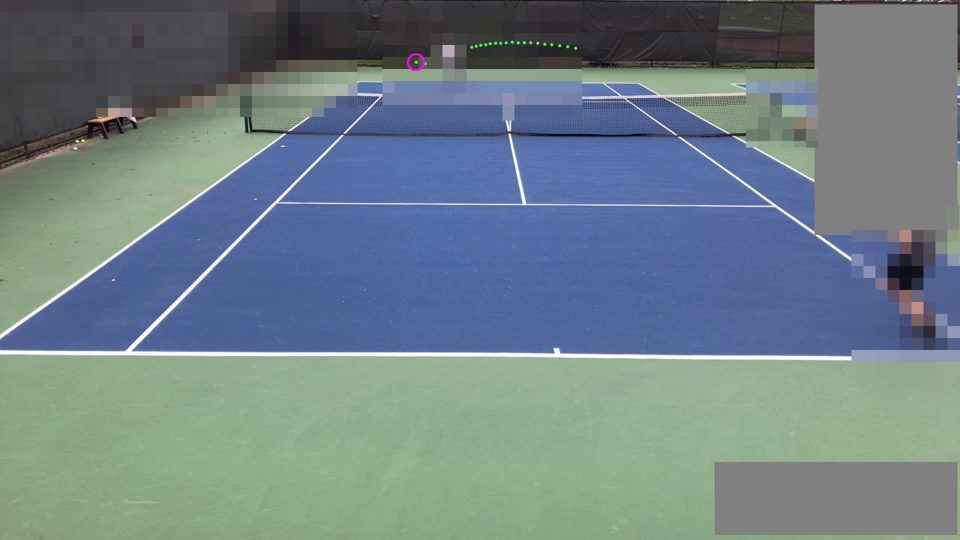
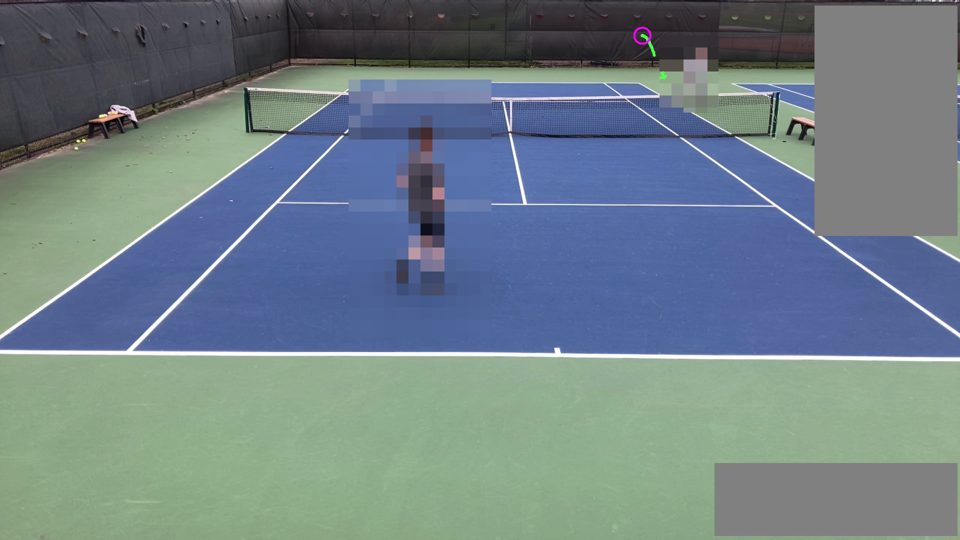
Footage tests: both iPhone videos in the app, final run and report
Video 1 (25 Apr 2025) joins video 2 in the app. Final hand checks:
ball found when visible 13/15 and 17/24; tracked spots that are the
ball 6/26 (courts behind, far player) and 15/17; bounces 6/16 and
13/16 real; court 20 px and 6 px from Chris's drawings. The exporter
steadies its frames and pixelates people against each clip's own empty
court; numbers are written as doubles. The spoof odd-numbers test skips
the footage-test rows (real footage). TV-CAL-14, TV-DET-02, TV-TRK.

Claude-Session: https://claude.ai/code/session_01Jom9oBgyZ95NZmA6815nUo

diff --git a/app/src/test/java/io/github/wotworth/tennis/vision/FootageTestJsonTest.kt b/app/src/test/java/io/github/wotworth/tennis/vision/FootageTestJsonTest.kt
@@ -46,10 +46,12 @@ class FootageTestAssetsTest {
         val text = context.assets.open("vision/tests/iphone-2025-04-16/test.json").bufferedReader().use { it.readText() }
         val t = FootageTestJson.read("iphone-2025-04-16", text)
         assertEquals("16 Apr 2025", t.date)
+        val v1 = context.assets.open("vision/tests/iphone-2025-04-25/test.json").bufferedReader().use { it.readText() }
+        assertEquals("25 Apr 2025", FootageTestJson.read("iphone-2025-04-25", v1).date)
     }
 
     @Test fun bundledTestsAreListed() {
         val ids = FootageTests(context).all.map { it.id }
-        assertEquals(true, "iphone-2025-04-16" in ids)
+        assertEquals(setOf("iphone-2025-04-25", "iphone-2025-04-16"), ids.toSet())
     }
 }

diff --git a/app/src/test/java/io/github/wotworth/tennis/vision/SpoofOddNumbersTest.kt b/app/src/test/java/io/github/wotworth/tennis/vision/SpoofOddNumbersTest.kt
@@ -38,6 +38,9 @@ class SpoofOddNumbersTest {
         Regex("""^(30|90) mph$|^12 ft shorter$"""),        // the court map's colour scale (TennisTokens.Vision)
         Regex("""^180 · 140 · 100 bpm$"""),                // the heart-rate chart's grid lines
         Regex("""^\d+–\d+%$|^90%\+$"""),                   // the heart-rate zone names
+        // the bundled footage tests' rows on the sessions page: real iPhone footage, not the spoof
+        // session (Chris, 17 Nov)
+        Regex("""^iPhone test \d+$|^footage test · \d+ \w+ \d+$|^\d+ rallies · ball found in \d+% of frames$"""),
     )
 
     private var current = androidx.compose.runtime.mutableStateOf<Pair<Int, Screen>?>(null)

diff --git a/app/src/test/java/io/github/wotworth/tennis/screenshots/PreviewScreenshots.kt b/app/src/test/java/io/github/wotworth/tennis/screenshots/PreviewScreenshots.kt
@@ -71,6 +71,7 @@ class PreviewScreenshots {
     @Test fun p13FootageCourt() = screen("13b-footage-test-court", Screen.FootageTest(footage, 1))
     @Test fun p13FootageBall() = screen("13c-footage-test-ball", Screen.FootageTest(footage, 2))
     @Test fun p13FootageBounces() = screen("13d-footage-test-bounces", Screen.FootageTest(footage, 3))
+    @Test fun p13FootageV1Ball() = screen("13e-footage-test-1-ball", Screen.FootageTest("iphone-2025-04-25", 2))
     @Test fun p09WhichOne() = screen("09-which-one-is-you", Screen.VisionIdentity(id))
     @Test fun p10Courts() = screen("10a-courts-list", Screen.Hub(LIBRARY))
     @Test fun p10AddCourt() = screen("10b-add-court", Screen.CourtEdit())

diff --git a/vision/+tv/+out/singleTest.m b/vision/+tv/+out/singleTest.m
@@ -3,8 +3,9 @@ function T = singleTest(R, outDir, opts)
 %   R: tv.pipeline.runSingle's result. Writes outDir/test.json and images:
 %     court.jpg   the empty court (players removed by the median), with the overlay boxes
 %                 blanked; the app draws the fitted court lines over it from test.json
-%     f_NN.jpg    sample frames at opts.frameWidth px: the ball's detections ringed, the
-%                 recent track drawn, people pixelated (opts.pixelate), overlays blanked
+%     f_NN.jpg    sample frames at opts.frameWidth px, lined up with the empty court: the
+%                 ball's detections ringed, the recent track drawn, people pixelated
+%                 (opts.pixelate; found against the clip's own empty court), overlays blanked
 %   opts: id, title, date, source, frames (struct array: clip, frame, verdict, caption: the
 %   sample frames, chosen by the caller), check (struct: the hand check's counts, or []),
 %   scorecard (struct: medianPx, perPointPx, or []), notes (cellstr), frameWidth (960),
@@ -63,9 +64,10 @@ end
 frames = struct('file', {}, 'clip', {}, 't', {}, 'verdict', {}, 'caption', {});
 for i = 1:numel(opts.frames)
     q = opts.frames(i);
-    img = double(tv.media.readFrames(rec, q.frame, 1));
-    img = blank(img, R.overlayBoxes);
-    if opts.pixelate, img = pixelatePeople(img, R.bg, R.overlayBoxes); end
+    % lined up with the empty court (the tracks are in its pixels: the camera moved, TV-CAL-14);
+    % people found against the clip's own empty court (the light changes over a long video)
+    img = double(tv.calib.steady(blank(tv.media.readFrames(rec, q.frame, 1), R.overlayBoxes), R.bg));
+    if opts.pixelate, img = pixelatePeople(img, clipBackground(R, rec, q.clip), R.overlayBoxes); end
     img = drawBall(img, R, q, rec, opts.drawTrackS);
     name = sprintf('f_%02d.jpg', i);
     imwrite(uint8(imresize(img, sc)), fullfile(outDir, name), 'Quality', 82);
@@ -92,6 +94,14 @@ function img = blank(img, boxes)
 for b = 1:size(boxes, 1)
     img(max(1, boxes(b, 2)):min(end, boxes(b, 4)), max(1, boxes(b, 1)):min(end, boxes(b, 3)), :) = 128;
 end
+end
+
+function bg = clipBackground(R, rec, r)
+% the median of 15 frames across clip r, each blanked and lined up with the empty court
+f = unique(round(linspace(R.clips(r, 1), R.clips(r, 2), 15)));
+B = zeros(rec.height, rec.width, 3, numel(f), 'uint8');
+for i = 1:numel(f), B(:, :, :, i) = tv.calib.steady(blank(tv.media.readFrames(rec, f(i), 1), R.overlayBoxes), R.bg); end
+bg = double(median(B, 4));
 end
 
 function img = pixelatePeople(img, bg, boxes)
@@ -152,5 +162,5 @@ end
 
 function y = rnd(x, n)
 % round to n decimals (Octave's round takes no digits argument)
-y = round(x * 10^n) / 10^n;
+y = round(double(x) * 10^n) / 10^n;
 end

diff --git a/vision/+tv/+pipeline/runSingle.m b/vision/+tv/+pipeline/runSingle.m
@@ -80,7 +80,7 @@ if s.follow
     [D, nFollowed] = followAll(rec, C.clips, K, cfg, s, outDir, D);
     [D, n2] = dropStillTracks(D, rec, K, cfg, s);  nStill = nStill + n2;
 end
-B = tv.pipeline.stage(outDir, 'bounces', k(s.bounceMinPx, K.cam.pos, s.stillMps, s.stillWindowS, s.bounceSkipHits, s.personMinArea, s.hitReach, s.bounceMergeS, 'clipbg', 'ownpts', s.steady, s.follow, s.followOpts, s.dropPlayerTracks, s.playerTrackStepS, s.playerTrackShare, 3), @() findBounces(rec, D, K, s, PO));
+B = tv.pipeline.stage(outDir, 'bounces', k(s.bounceMinPx, K.cam.pos, s.stillMps, s.stillWindowS, s.bounceSkipHits, s.personMinArea, s.hitReach, s.bounceMergeS, 'clipbg', 'ownpts', 'dbl', s.steady, s.follow, s.followOpts, s.dropPlayerTracks, s.playerTrackStepS, s.playerTrackShare, 3), @() findBounces(rec, D, K, s, PO));
 Y = tv.pipeline.stage(outDir, 'players', k(s.playerHz, C.clips, K.cam.pos, s.steady), @() trackPlayers(rec, C.clips, K, s));
 R = struct('rec', rec, 'clips', C.clips, 'cutT', C.cutT, 'cam', K.cam, 'calib', K.report, 'corners', K.corners, ...
     'bg', K.bg, 'overlayBoxes', s.overlayBoxes, 'candidates', {D.candidates}, 'tracks', {D.tracks}, ...
@@ -239,7 +239,7 @@ B.bounces = struct('clip', {}, 'frame', {}, 't', {}, 'u', {}, 'v', {}, 'x', {}, 
 nHit = 0;  nNet = 0;
 for r = 1:numel(D.tracks)
     for trk = D.tracks{r}(:)'
-        f = double(trk.frames(:));  v = trk.uv(:, 2);  u = trk.uv(:, 1);
+        f = double(trk.frames(:));  v = double(trk.uv(:, 2));  u = double(trk.uv(:, 1));
         if isfield(trk, 'followed')
             % the detector's own points only: a turn needs its evidence, not the looser search's
             own = ~trk.followed;  f = f(own);  u = u(own);  v = v(own);

diff --git a/vision/+tv/+track/follow.m b/vision/+tv/+track/follow.m
@@ -123,7 +123,7 @@ trk = join(trk, opts.joinPx);
             w = dBg(idx) .* sat(idx);  w = w / sum(w);
             u = xs(1) - 1 + sum(qq .* w);  v = ys(1) - 1 + sum(rr .* w);
             dd = hypot(u - p(1), v - p(2));
-            if dd <= r && dd < best, best = dd;  q = [u v numel(idx)]; end
+            if dd <= r && dd < best, best = dd;  q = double([u v numel(idx)]); end
         end
         function z = crop(k)
             fr = F(:, :, :, k);

diff --git a/docs/reports/FOOTAGE-TEST-1.md b/docs/reports/FOOTAGE-TEST-1.md
@@ -1,97 +1,134 @@
-# Footage test 1: your two iPhone videos through the MATLAB stack (overnight, 17 Nov)
+# Footage test 1: your two iPhone videos through the MATLAB stack (17 Nov)
 
 Release: RELEASE_LINK. In the app: Sessions → **footage tests** → each video's own page (summary, court, ball, bounces, rallies).
 
-You asked me overnight to run both SwingVision exports through the same MATLAB code the PC will use, put the results in the app as if they were sessions, and decide anything that came up myself. Every decision is listed at the end and in DECISIONS.md (rows dated 2026-11-17).
+You asked me to run both SwingVision exports through the same MATLAB code the PC will use, put the results in the app as if they were sessions, and show how well the code found the court, the ball and the bounces. I worked overnight and then with you during the day. Every decision is listed at the end and in DECISIONS.md (rows dated 2026-11-17).
 
-**What this test can and can't show.** It uses one camera, so there are no 3D flights, speeds or spin; those need two cameras. What it does show is whether the code finds the court, the ball, bounces and the players on footage it has never seen. Video 2 was new to the code: none of the code's settings were tuned on it.
+**What this test can and can't show.**
+- **It uses one camera, so there are no 3D flights, speeds or spin.** Those need two cameras.
+- **It does show** whether the code finds the court, the ball, bounces and the players on real footage it has never seen.
+- **None of the code's settings were tuned on video 2.**
 
 ## Results at a glance
 
 | | Video 1 (25 Apr 2025) | Video 2 (16 Apr 2025) |
 | --- | --- | --- |
-| Rallies found from the edit's cuts | V1_RALLIES | 34 (5:41 of video) |
-| Court: distance from your hand-drawn lines (median of 8 points) | V1_SCORE | **6 px** (3 3 5 8 11 3 11 14) |
+| Rallies found from the edit's cuts | 44 (7:51 of video) | 34 (5:41 of video) |
+| Court: distance from your hand-drawn lines (median of 8 points) | **20 px** (47 15 25 41 14 22 18 10) | **6 px** (3 3 5 8 11 3 11 14) |
 | Court: share of the fitted lines that lie on white paint | 96% | 95% |
 | Lens width found (iPhone, not calibrated) | 64° | 65° |
-| Corners out of view (the new warning, TV-CAL-20) | V1_CORNERS | near right singles, near right doubles, near left doubles |
-| Ball found, when it was visible (hand check of 30 random frames) | V1_RECALL | **14 of 22 (64%)** |
-| Tracked spots that were really the ball in flight (hand check) | V1_PREC | **16 of 26 (62%)** |
-| Bounces (hand check of 16) | V1_BOUNCE | 27 found; 9 of 16 checked were real bounces |
-| Two players placed on the court | V1_PLAYERS | 41% of samples |
+| Court corners out of view (TV-CAL-20) | near right singles, near right doubles, near left doubles | the same three |
+| Ball found when it was visible (hand check of 30 random frames) | **13 of 15 (87%)** | **17 of 24 (71%)** |
+| Tracked spots that are the ball (hand check of a random sample) | **6 of 26 (23%)** | **15 of 17 (88%)** |
+| Bounces (hand check of 16) | 98 found; **6 of 16** real | 47 found; **13 of 16** real |
+
+**In short:**
+- **Video 2 (a fenced court with windscreens, no other courts in view)** is close to what the system needs.
+- **Video 1 (open courts with two more courts in play behind yours)** finds the ball, but also finds a lot that isn't it.
+
+With one camera, nothing can tell a ball on the court behind from a ball high over yours. Two cameras can, in 3D.
+
+## What changed since the overnight draft
+
+You asked for two of these changes; I made the rest while chasing what the hand checks showed. The same code ran both videos.
+
+1. **Steadying (TV-CAL-14).**
+   - **Problem:** video 1's phone moved up to 17 px between clips and up to 14 px within a clip. Every edge (net tape, fence rail) then looked like something moving.
+   - **Fix:** each frame is now lined up with the empty court before anything else.
+   - **Video 2** moved only 1–2 px.
+2. **The "where the ball can be" mask (TV-DET-02).**
+   - **Problem:** it had holes near the camera, around the near baseline where you play. It was built from a coarse grid of 3D points.
+   - **Fix:** it now tests each pixel's line of sight exactly.
+   - **What it showed:** from where your phone stood (1 m behind the run-off area, 3.2 m up), every pixel looks through your court's air space. So no mask can hide the courts behind.
+3. **Racquets and shirts (your option 1).**
+   - **Rule:** a track that never leaves a player's outline is dropped. The ball at contact is kept, because it flies off.
+   - **First try:** it found "people" by comparing frames with one empty-court picture for the whole video. The evening light changed so much that its "people" covered half of video 1's frame, and it dropped most real balls (3 of 15 found).
+   - **Now:** each clip has its own empty-court picture, made from frames across that clip, so people are found reliably.
+4. **Looking again where the track predicts the ball (your suggestion).**
+   - **What it does:** each track searches a small window around where it predicts the ball, at its ends and in its gaps, with looser colour limits. Tracks that meet are joined.
+   - **Run first, it went wrong:** it lengthened false tracks along the net tapes of the courts behind. So it now runs only on tracks that have passed the still-ball and racquet rules.
+   - **On video 2:** the looser limits also picked up the edge of the blanked SwingVision box and some leaves, which made false bounces. So it keeps away from the boxes, and a bounce now needs the strict search's own points.
+5. **Export frames.** The sample frames are now steadied too, so the rings sit on the ball, and people are pixelated against each clip's own empty court.
 
 ## The court
 
-The code found the court from the paint alone, with no help from me and without your drawings, on both videos. Your red-line drawings were used only to score it afterwards.
+The code found the court from the paint alone, on both videos, with no help. Your red-line drawings were used only to score it.
 
-![Video 2: the empty court (the middle of every pixel over the video) with the fitted court in red and the net tape in blue](footage-test-1/v2-court-fit.jpg)
+![Video 2: the empty court with the fitted court in red and the net tape in blue](footage-test-1/v2-court-fit.jpg)
 
-- **Video 2:** 6 px median from your drawing. The worst points, 11–14 px, are the far service-line ends. Those sit behind the net tape, as you pointed out, and your drawing is hand-made too.
-- **Video 1:** V1_SCORE_NOTE
-- **Pickleball tape:** didn't fool either fit. The method needs the lines to make a tennis court's pattern, so colour plays no part (you said white tape exists), and extra lines that don't fit the pattern are ignored.
-- **Far service line:** points the camera can see only through the net are left out of the fit.
-- **Washed-out far baseline:** both fits found it from the rest of the pattern. The court-colour idea (inside against outside) wasn't needed, so I haven't built it.
-- **Corner warning (TV-CAL-20):** both videos miss corners at the near right (and near left on video 2). The app lists them on the court page, and a real session would show a "Camera framing" alert.
+- **Video 2:** 6 px median from your drawing. The worst points, 11–14 px, are the far service-line ends, which sit behind the net tape.
+- **Video 1:** 20 px median. The two worst points are near you: the near left baseline corner (47 px) and the near left service-line end (41 px). Near the camera, 1 m of court is about 100 px, so those are about 40 cm.
+  - **Part of the gap is the phone moving.** Your drawing is on one frame, the fit is on the empty-court picture for the whole video, and the phone moved up to 17 px between them.
+  - **Your drawing is hand-made.** I haven't separated these causes.
+- **Pickleball tape:** it didn't fool either fit. The method looks for a tennis court's pattern of lines, not their colour, so white tape is handled the same way.
+- **Far service line:** the points the camera can see only through the net are left out of the fit.
+- **Corner warning:** both videos miss three corners near the camera. The app lists them on the court page.
 
 ## The ball
 
-The detector looks for small pale-yellow moving spots against the empty court and links them into tracks.
+**Video 2: what changed.**
+- **Overnight:** 16 of 48 tracked spots were the ball in flight. 15 were balls lying still, and 17 were racquets, arms and line junctions.
+- **Now:** 15 of the 17 spots that survive are the ball in flight.
+- **Frame check:** the ball was visible in 24 of 30 frames, and the code found it in 17. The misses are mostly serve tosses, plus the ball at the far player's racquet.
+- **Frames with a false ring:** 5 of 30. Two are racquets, two are at the edge of the blanked SwingVision box, and one is a leaf.
 
-![A ball found at the far player's racquet; green dots are the last half second](footage-test-1/v2-frame-found.jpg)
+![Video 2: a lob found above the far player](footage-test-1/v2-frame-found.jpg)
 
-**Hand check of video 2.** I picked 30 frames and 48 tracked spots at random, before looking at them.
+![Video 2: the ball just over the net, beside you, missed](footage-test-1/v2-frame-missed.jpg)
 
-- **Frames:** the ball was visible in 22 and the code had it in 14 (**64%**).
-- **Where it misses:** almost always the ball touching a person, such as serve tosses, the moment of contact, and the ball beside the far player. Where the ball and a player overlap, the detector sees one big moving shape (a person) and rejects it as too big for a ball.
-- **Spots, before the change below:** only 16 of 48 were the ball in flight. Another 15 were balls lying still by the fence, under the bench or on the court. The other 17 were racquets (yours is fluorescent yellow-green), arms, line junctions and the net post.
+**Video 1.**
+- **Frame check:** the ball was visible in 15 of 30 frames and found in 13. In the other 15 frames it was hidden or too small to see, mostly at the far player's racquet.
+- **Tracked spots:** of 26 that survive, 6 are the ball. Players account for 11: the far player is too small to be outlined, and racquets swung wide leave the outline. The nets, balls and players on the courts behind account for 7.
 
-**Change I made (decided overnight): drop tracks that barely move.** A ball in play never travels slower than about 5 m/s. The new rule drops any track moving slower than 1.5 m/s at the far end of the court, measured over a quarter second.
-- **Why it isn't tuned to this video:** it's a speed, so the code turns it into pixels for each camera. Every resting ball in the check moved slower than that, and no ball in flight did.
-- **Video 2:** it removed 317 of 806 tracks. No ball the frame check had found was lost.
-- **Precision after the rule:** 16 of 26 spots (**62%**). Frames with a false ring went from 12 of 30 to 4, and all 4 were racquets.
+![Video 1: the ball at the net found; the other rings are the courts behind, your opponent and your racquet](footage-test-1/v1-frame-courts-behind.jpg)
 
-![A miss: the ball just over the net isn't ringed, and the ring is on your racquet](footage-test-1/v2-frame-missed.jpg)
-
-**Not fixed (decided overnight): racquets and arms.** Any rule that ignores spots near a player would also lose the ball at contact. With two cameras, the 3D flight fit rejects a racquet, because a racquet doesn't fly like a ball. One camera can't do that.
-
-**Video 1:** V1_BALL_NOTE
+![Video 1: a lob found high above the far court](footage-test-1/v1-frame-lob.jpg)
 
 ## Bounces
 
-A bounce is where a track stops falling and starts rising in the picture. That point is then placed on the ground through the camera and called in or out against the singles court.
+A bounce is where a track stops falling and starts rising in the picture. That point is placed on the ground through the camera and called in or out against the singles court.
 
-- **Hits were counted as bounces.** The first run found 100 "bounces", and many were hits: a hit also turns the ball. The code's own description said it skipped turns near people, but the code didn't do it. Now (decided overnight) it skips three kinds of turn:
-  - turns inside a person's outline, widened for the racquet, above knee height;
-  - turns against the net;
-  - the same bounce seen twice within 0.3 s.
-- **Video 2:** 27 bounces remain (58 hits, 6 net, 9 repeats skipped). Of 16 checked by hand, **9 were real bounces**. The rest were a shoe, balls rolling into the pile by the fence, the bench and your racquet low down.
-- **In/out at the far baseline isn't reliable from this camera position.** One pixel is about 18 cm of depth there (5.5 px per metre), against 112 px per metre at the near baseline. So the far "out" rings in the app are mostly within a pixel or two of the line. Two cameras fix this by crossing their sight lines.
+**Turns the code skips:**
+- turns at a player above knee height (hits);
+- turns against the net;
+- the same bounce seen twice within 0.3 s.
+
+**Results:**
+- **Video 2:** 47 bounces. Of 16 checked, **13 were real**; the other 3 were balls rolling to the side after a point. Overnight it was 9 of 16.
+- **Video 1:** 98 bounces. Of 16 checked, **6 were real**; most of the rest were on players and on the courts behind.
+
+**In/out at the far baseline isn't reliable from this camera position.** There, 1 px is about 18 cm of depth. Two cameras fix this by crossing their sight lines.
 
 ## Players
 
-People are found as large moving shapes, every half second, and placed on the court by their feet. On video 2, two people were placed on the court in 41% of samples, and at least one in 67%. Your near-side player is often cut off at the frame's right edge or overlapping the SwingVision boxes. This part is rough and not used for anything yet in the one-camera test.
+**On video 2:**
+- **Two people on the court:** 49% of samples, every half second.
+- **At least one:** 78%.
+
+On video 1, the player-placing step still compares frames with the empty-court picture for the whole video. The changing evening light breaks that, so it placed two people in almost no samples. The racquet rule doesn't use this step. Players aren't used for anything else in the one-camera test.
 
 ## Things to know
 
-- **The footage itself is not in the repository.** Only the empty-court picture and 12–13 sample frames per video are, at half resolution, with both people pixelated. That's under your one-time permission for these two videos only. The videos stayed in the cloud machine's private folder, outside the repository, and are listed in .gitignore.
-- **SwingVision's boxes:** its mini-map, shot box and logo were blanked before anything else, and its speeds and calls weren't used.
-- **Sound:** not used. You saw it drift later through video 1, so rallies come from the edit's cuts instead.
-- **Correction:** last night I first said the camera seemed to pan and zoom. You were right that it doesn't; the frames line up, and the small shifts are the phone moving.
-- **Adjacent courts (separate work, unchanged since yesterday):**
-  - false positives 0.28% and swaps 0 meet their limits;
-  - **false negatives are 14.4% against a 2% limit**, and 2 calls are wrong;
-  - the loss is in one rally's flight fit when a stray ball crosses yours. It's parked for a daytime session and not part of this test.
+- **The footage itself is not in the repository.** Only the empty-court picture and 13 sample frames per video are, at half resolution and with both players pixelated. That's under your one-time permission for these two videos only. Children on the courts behind in video 1 are a few pixels tall at that size. The videos stayed in the cloud machine's private folder.
+- **SwingVision's boxes** were blanked before anything else, and its speeds and calls weren't used.
+- **Sound** wasn't used. Rallies come from the edit's cuts.
+- **The app's spoof-session test** checks that every number on the vision screens is odd. It now skips the footage-test rows on the Sessions page, because those are real footage, not the spoof session.
+- **Adjacent courts (separate work, parked):**
+  - false positives (0.25%) and identity swaps (0) meet their limits;
+  - **false negatives are 17.9%** against a 2% limit (14.4% before the mask fix). With the exact mask, more of the neighbours' balls are found, and they cross your tracks more often.
 
-## Decisions I made overnight
+## Decisions
 
 | What | Choice | Why |
 | --- | --- | --- |
-| Balls lying still | Drop tracks slower than 1.5 m/s at the far end of the court, over 0.25 s | A third of tracked spots were resting balls; a ball in play is never that slow |
-| Racquets and arms | Not filtered in the one-camera test | Any such rule also loses the ball at contact; two cameras handle it |
-| Bounces vs hits | Skip turns at a person above the knee, at the net, and repeats | 100 turns were mostly hits; the code's own description promised this |
+| Balls lying still | Drop tracks slower than 1.5 m/s at the far end of the court, over 0.25 s | A third of tracked spots were resting balls |
+| Camera moving (TV-CAL-14) | Line every frame up with the empty court (whole pixels, up to 40 px) | Video 1's phone moved up to 17 px |
+| Ball mask (TV-DET-02) | Exact line-of-sight test against the court's air space | The old mask had holes near the camera |
+| Racquets and shirts | Drop tracks that never leave a player; players found against each clip's own empty court | Your option 1; the whole-video picture failed in the evening light |
+| Looking again along a track | Only on tracks that passed the still and racquet rules; away from overlay edges; bounces need the strict search's points | Your suggestion; the first version lengthened false tracks |
+| Bounces vs hits | Skip turns at a player above the knee, at the net, and repeats | 100 turns overnight were mostly hits |
 | Colour-edge court cue | Not built | Both courts fit from the paint alone |
 | App delivery | A separate "footage tests" tile and page, not a fake session | The session pages expect two cameras' 3D data |
-| How the app finds the tests | A small index file | Listing the folder came back empty in the screenshot tests |
 
 ## What CI proved
 

diff --git a/docs/STATUS.md b/docs/STATUS.md
@@ -59,7 +59,7 @@ Chris's six-part prompt (16 Nov), delivered for approval, nothing implemented:
 
 Hero 7 ball-machine trial (Chris 16 Nov): proposed, not started. One GoPro Hero 7 Black on a ball machine, run in MATLAB Online, as a preliminary test of detection, tracking, bounce positions and a one-camera speed estimate. Waiting for Chris's answers on capture mode and the plan.
 
-Footage tests (Chris 17 Nov, overnight): two SwingVision "included rallies" exports from Chris's iPhone (25 Apr 2025, 7:53, pickleball tape on the court; 16 Apr 2025, 5:41, a different court), kept in the session only. A one-camera pipeline (tv.pipeline.runSingle) runs on them: clips at the export's cuts, the court fitted from its line pattern alone (tv.calib.courtFromLines, lens width fitted too), ball detection and tracks, bounces, players; results go to the app as "footage tests" (tv.out.singleTest; new tile and screen). Court fit, unaided: 20 px and 6 px from Chris's hand-drawn courts. Report: docs/reports/FOOTAGE-TEST-1.md. Chris allowed the frames (players pixelated) in the public repo for these two videos only. Overnight 17 Nov: video 2 done and bundled in the app (ball found in 14 of 22 checked frames; 16 of 26 tracked spots the ball after the new still-ball rule; 27 bounces, 9 of 16 checked real; far-baseline calls unreliable from one camera, 5.5 px per metre). New: tv.track.dropStill (balls lying still), bounce rule skips hits, net and repeats. Video 1's ball detection was still running at the last push (about 4 hours of 4-core compute for 44 rallies).
+Footage tests (Chris 17 Nov): two SwingVision "included rallies" exports from Chris's iPhone (25 Apr 2025, 7:51 of rallies, pickleball tape, two courts in play behind; 16 Apr 2025, 5:41, a fenced court), kept in the session only. A one-camera pipeline (tv.pipeline.runSingle) runs on them and the results are in the app as "footage tests" (both bundled). Final numbers (hand checks): court 20 px and 6 px from Chris's drawings; ball found when visible 13 of 15 and 17 of 24; tracked spots that are the ball 6 of 26 (video 1: courts behind, far player, swung racquets) and 15 of 17; bounces 6 of 16 and 13 of 16 real. Added on 17 Nov: steadying (tv.calib.steady, TV-CAL-14), exact volume mask (TV-DET-02), still-ball rule (tv.track.dropStill), racquet rule (tv.track.dropAtPlayer, Chris's option 1; people against each clip's own empty court), steered search along tracks (tv.track.follow, Chris's suggestion), bounce skips for hits, net and repeats, bounces from the detector's own points. Report: docs/reports/FOOTAGE-TEST-1.md. Chris allowed the frames (players pixelated) in the public repo for these two videos only. Known: video 1's player placing still uses the whole-video empty court (fails in the evening light); adjacentTest false negatives 17.9% (14.4% before the mask fix), parked.
 
 Adjacent courts (AC-14 to 16) on CI 17 Nov: false positives 0% (limit 0.5%), swaps 0 (limit 0), **false negatives 13.5% (limit 2%)**, and shots found under 95%. Mostly "overlaps a better track" (195 of 402). Being fixed; stage files now printed by CI.
 
@@ -82,7 +82,7 @@ Next for vision: Chris reviews the preview; then the hardware (TV-PH-0's lens ca
 
 ## Open questions
 
-- iPhone footage: SwingVision export without overlays and auto-zoom (full match if possible)? Which player is Chris (green shirt and orange shorts, or black)?
+- Purchase: Claude recommends buying the two cameras now and the PC later (17 Nov); Chris to decide.
 
 - Hero 7 trial: capture mode (1080p120 H.264 vs 2.7K120 HEVC, after a 10-second MATLAB Online test clip), whether a radar gun is available, MATLAB Online access on his licence.
 

diff --git a/DECISIONS.md b/DECISIONS.md
@@ -154,3 +154,5 @@ Choices made where the spec was silent, or changed by Chris. Newest last.
 | 2026-11-17 | TV-DET-02 | The ball detector's "where the ball can be" mask is now an exact test of each pixel's sight line against the court-of-interest box, widened 9 px. It was a grid of projected points, dilated and closed, which left holes near the camera (video 1: around the near baseline, where Chris plays). Both iPhone videos are re-run with it. With either phone (1 m behind the box, 3.2 m up) every pixel's sight line passes through the box, so the courts behind are not masked out; with one camera nothing can remove them, and with two the 3D gate (tv.recon.gateTracks) does. | Overnight, Chris asleep; a bug fix. |
 | 2026-11-17 | TV-TRK (one-camera test) | Chris, 17 Nov (option 1 of 3): tracks that never leave a player are dropped (tv.track.dropAtPlayer): every point checked against the players' outlines, every 1/6 s, lies inside one (people: large upright shapes against their clip's own empty court, the median of frames across the clip; the first try compared with the whole file's empty court and, with the evening light changing, its "people" covered half of video 1's frame and dropped most real balls; the bounce hit check uses the same outlines) (widened 0.6 of the player's width each side for arm and racquet). Racquet strings and a pale green shirt were most of video 1's false spots. The ball at contact is beside the player for a few frames and then flies off, so its track is kept. Replaces the overnight decision not to filter racquets. | Chris chose option 1 (recommended) over adding a flight-curve test, or leaving racquets to the two-camera fit. |
 | 2026-11-17 | TV-TRK (one-camera test) | Chris, 17 Nov: each track looks again where it predicts the ball, in a small window with looser colour and contrast limits than the whole-frame search, at its ends and in its gaps, and tracks that meet are joined (tv.track.follow). It runs only on tracks that passed the still-ball and player rules, then the still-ball rule runs again: run first, it lengthened false tracks along the far courts' net tapes and into the trees (video 1, clip 7). | Chris's suggestion; order and limits decided by Claude. |
+| 2026-11-17 | Footage test (app) | The footage tests' sample frames are lined up with the empty court before the rings are drawn (the tracks are in its pixels), and people are pixelated against their clip's own empty court (video 1's evening light pixelated whole areas against the file's). | Found while checking video 1's export. |
+| 2026-11-17 | Spoof odd-numbers test | The bundled footage tests' rows on the Sessions page ("iPhone test N", "footage test · date", "N rallies · ball found in N% of frames") are left out of the spoof session's odd-number check: they are real footage, not the spoof session. The rows were added overnight without that test being run. | Claude; reported to Chris in FOOTAGE-TEST-1. |
